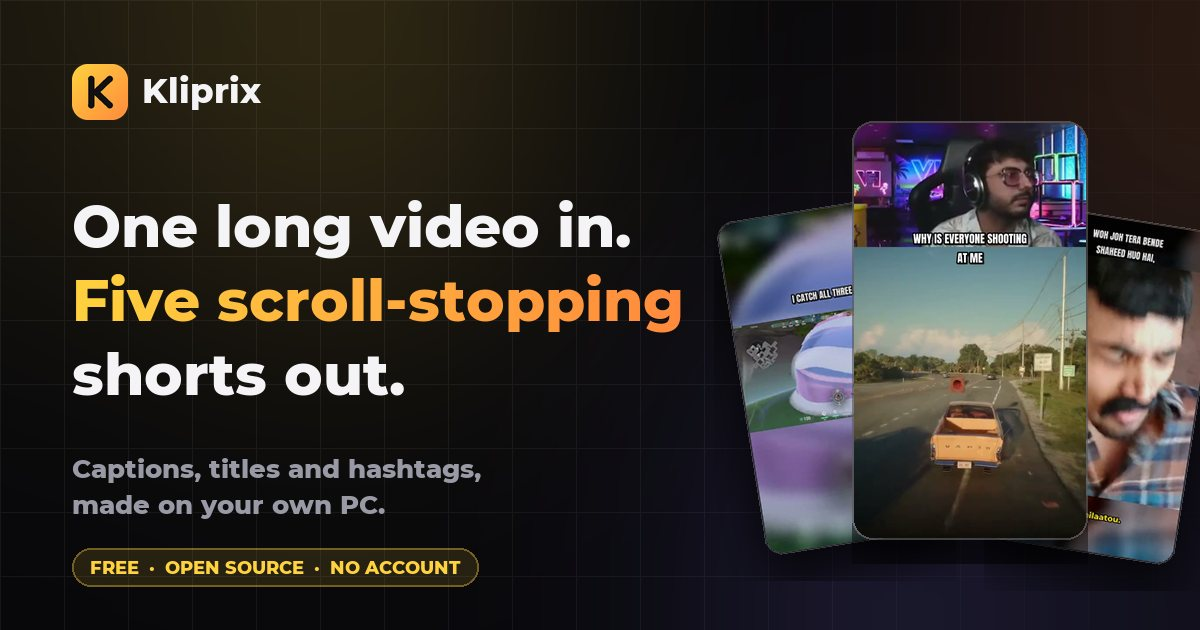
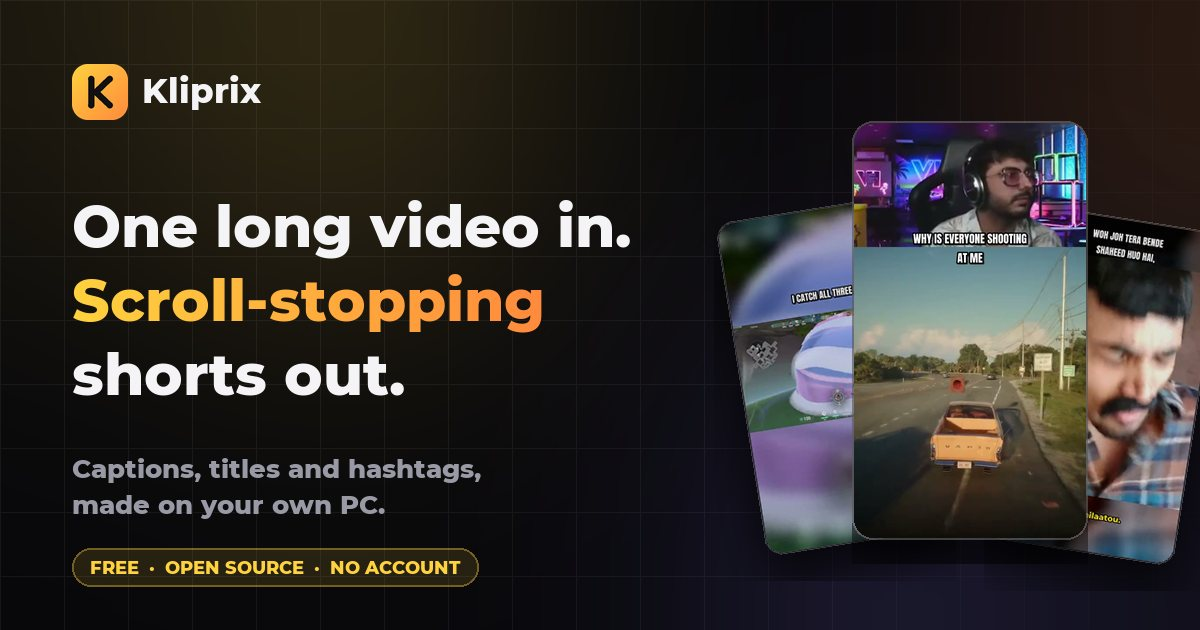
feat(site): preview wording, OS switcher for the install command, CTA buttons side by side on phones
- Hero heading "Scroll-stopping shorts out." (no "Five"); button reads
  "Download Preview" since the app is not finished; share image and its alt text match
- Final CTA: a dropdown picks Windows, macOS or Linux; the command and Copy follow
  it (macOS/Linux use `sh scripts/start.sh` because start.sh is not executable in git)
- Download and Star on GitHub stay side by side on phones (smaller on narrow screens)

Changed region(s): [[0.0617, 0.4222, 0.5858, 0.5429]]

diff --git a/src/components/site/final-cta.tsx b/src/components/site/final-cta.tsx
@@ -1,10 +1,8 @@
 import { buttonVariants } from "@/components/ui/button";
 import { cn } from "@/lib/utils";
 import { repoUrl, site } from "@/lib/site";
-import { CopyButton } from "./copy-button";
+import { InstallCommand } from "./install-command";
 import { GitHubIcon, Logo } from "./icons";
-
-const installCmd = `git clone ${repoUrl}.git && cd Kliprix && scripts\\start.bat`;
 
 export function FinalCta() {
   return (
@@ -19,12 +17,12 @@ export function FinalCta() {
           <br />
           are <span className="text-brand">one link away.</span>
         </h2>
-        <div className="reveal mt-8 flex flex-wrap justify-center gap-3">
+        <div className="reveal mt-8 flex justify-center gap-2.5 sm:gap-3">
           <a
             href={site.downloadZip}
             className={cn(
               buttonVariants({ size: "lg" }),
-              "h-12 rounded-xl px-5 text-[15px] font-semibold glow-brand",
+              "h-11 rounded-xl px-4 text-[14px] font-semibold glow-brand sm:h-12 sm:px-5 sm:text-[15px]",
             )}
           >
             Download Kliprix
@@ -35,7 +33,7 @@ export function FinalCta() {
             rel="noreferrer"
             className={cn(
               buttonVariants({ variant: "outline", size: "lg" }),
-              "h-12 gap-2 rounded-xl border-line-strong bg-white/[0.04] px-5 text-[15px] font-semibold",
+              "h-11 gap-2 rounded-xl border-line-strong bg-white/[0.04] px-4 text-[14px] font-semibold sm:h-12 sm:px-5 sm:text-[15px]",
             )}
           >
             <GitHubIcon className="size-4" />
@@ -43,13 +41,7 @@ export function FinalCta() {
           </a>
         </div>
         <div className="reveal mx-auto mt-8 flex w-fit max-w-full flex-col items-center gap-3">
-          <div className="flex w-full items-center gap-3 rounded-xl border border-line-strong bg-white/[0.03] py-2.5 pr-2.5 pl-4 text-left">
-            <span className="hidden shrink-0 text-xs text-dim sm:inline">Windows</span>
-            <code className="min-w-0 flex-1 font-mono text-[12.5px] break-all text-[#d8d8de] sm:text-[13px] md:break-normal md:whitespace-nowrap">
-              {installCmd}
-            </code>
-            <CopyButton text={installCmd} className="px-2 py-1 text-xs" />
-          </div>
+          <InstallCommand />
           <p className="text-center text-xs text-dim">
             Needs Python 3.11 or 3.12, Node.js 22+ and FFmpeg. The first start installs everything
             else.{" "}

diff --git a/src/components/site/install-command.tsx b/src/components/site/install-command.tsx
@@ -1,0 +1,46 @@
+"use client";
+
+import { useState } from "react";
+import { Select, SelectContent, SelectItem, SelectTrigger, SelectValue } from "@/components/ui/select";
+import { repoUrl } from "@/lib/site";
+import { CopyButton } from "./copy-button";
+
+// scripts/start.sh is not marked executable in git, so it is run with `sh`, which works on
+// a fresh clone on both macOS and Linux.
+const clone = `git clone ${repoUrl}.git && cd Kliprix`;
+const commands = {
+  windows: { label: "Windows", cmd: `${clone} && scripts\\start.bat` },
+  macos: { label: "macOS", cmd: `${clone} && sh scripts/start.sh` },
+  linux: { label: "Linux", cmd: `${clone} && sh scripts/start.sh` },
+} as const;
+type Os = keyof typeof commands;
+
+/** The one install command, with a dropdown to switch the operating system; Copy copies the shown one. */
+export function InstallCommand() {
+  const [os, setOs] = useState<Os>("windows");
+  const cmd = commands[os].cmd;
+  return (
+    <div className="flex w-full items-center gap-2 rounded-xl border border-line-strong bg-white/[0.03] py-2 pr-2.5 pl-2 text-left sm:gap-3">
+      <Select value={os} onValueChange={(v) => setOs(v as Os)}>
+        <SelectTrigger
+          size="sm"
+          aria-label="Operating system"
+          className="shrink-0 border-line-strong bg-transparent text-xs text-muted-foreground hover:text-foreground dark:bg-transparent"
+        >
+          <SelectValue />
+        </SelectTrigger>
+        <SelectContent>
+          {(Object.keys(commands) as Os[]).map((k) => (
+            <SelectItem key={k} value={k} className="text-xs">
+              {commands[k].label}
+            </SelectItem>
+          ))}
+        </SelectContent>
+      </Select>
+      <code className="min-w-0 flex-1 font-mono text-[12.5px] break-all text-[#d8d8de] sm:text-[13px] md:break-normal md:whitespace-nowrap">
+        {cmd}
+      </code>
+      <CopyButton text={cmd} className="shrink-0 px-2 py-1 text-xs" />
+    </div>
+  );
+}

diff --git a/src/components/site/hero.tsx b/src/components/site/hero.tsx
@@ -51,7 +51,7 @@ export function Hero() {
         >
           One long video in.
           <br />
-          <span className="text-gradient">Five scroll-stopping shorts</span> out.
+          <span className="text-gradient">Scroll-stopping shorts</span> out.
         </motion.h1>
 
         <motion.p
@@ -71,7 +71,7 @@ export function Hero() {
             )}
           >
             <DownloadIcon className="size-[18px]" />
-            Download for Free
+            Download Preview
           </a>
         </motion.div>
       </motion.div>

diff --git a/src/app/layout.tsx b/src/app/layout.tsx
@@ -24,7 +24,7 @@ const shareImage = {
   url: "/og.jpg",
   width: 1200,
   height: 630,
-  alt: "Kliprix: one long video in, five scroll-stopping shorts out",
+  alt: "Kliprix: one long video in, scroll-stopping shorts out",
   type: "image/jpeg",
 };
 

diff --git a/scripts/make-share-image.py b/scripts/make-share-image.py
@@ -146,7 +146,7 @@ def share_image():
 
     y = 190
     d.text((72, y), "One long video in.", font=head, fill=TEXT)
-    gradient_text(canvas, (72, y + 74), "Five scroll-stopping", head, BRAND, BRAND_2)
+    gradient_text(canvas, (72, y + 74), "Scroll-stopping", head, BRAND, BRAND_2)
     d.text((72, y + 148), "shorts out.", font=head, fill=TEXT)
 
     d.text((72, 452), "Captions, titles and hashtags,", font=small, fill=MUTED)
